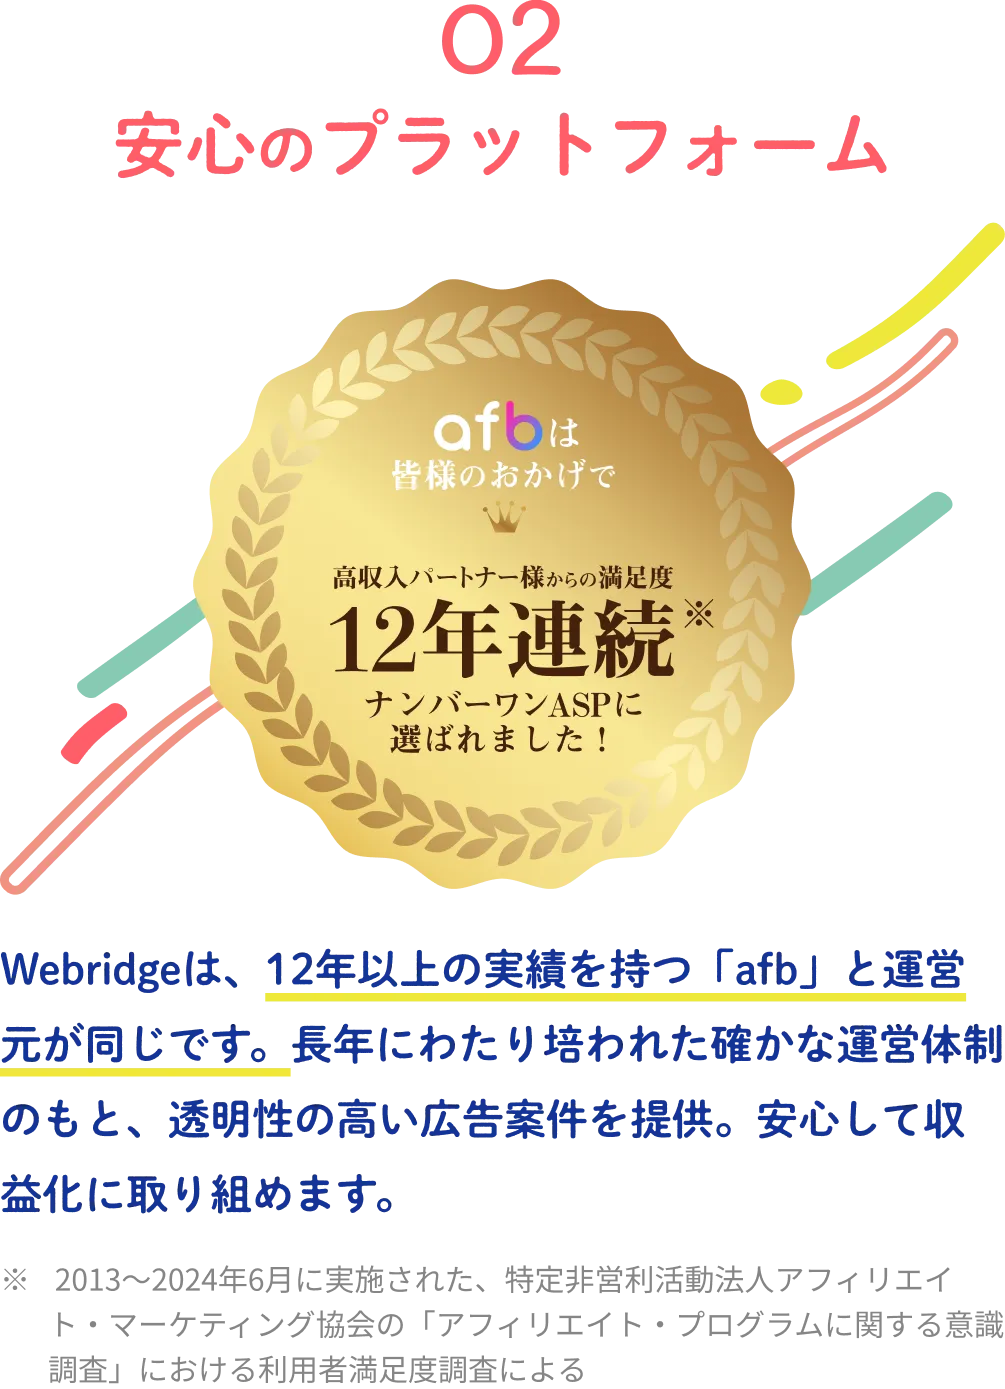
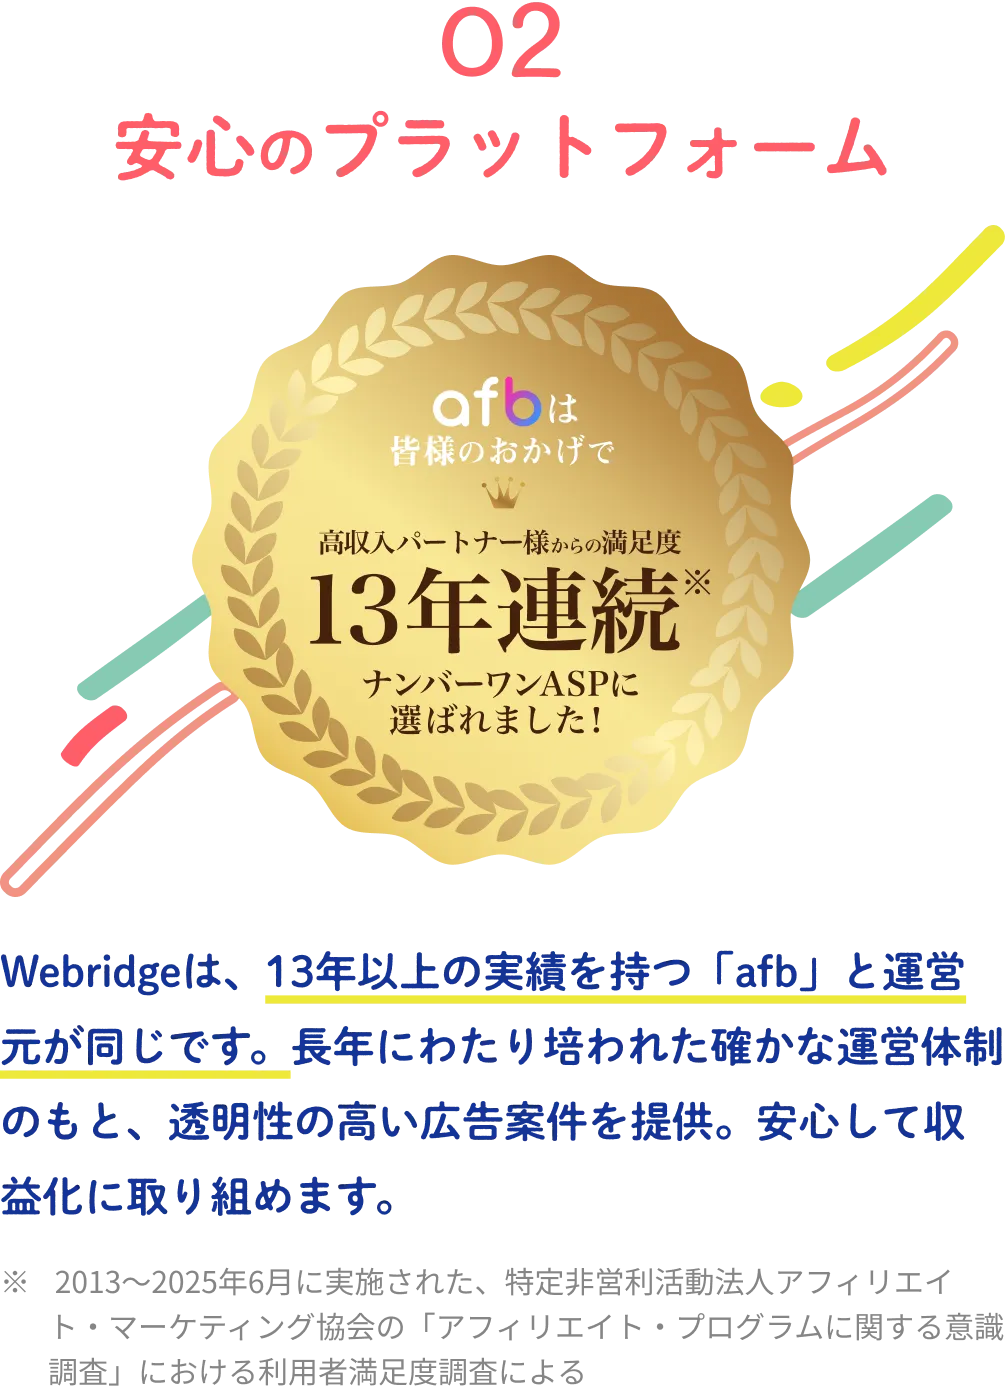
[fix] 選ばれる理由のreason02の画像差し替え

diff --git a/ja_jp/influencer/index.html b/ja_jp/influencer/index.html
@@ -234,7 +234,7 @@
                         <img src="assets/images/reason_item01.webp" alt="01.海外案件に気軽に挑戦　日本の会社が運営するWebridge。画面の日本語表示はもちろん、日本人スタッフのサポートもあるので、「海外案件に挑戦したいけど、契約や管理の複雑さが不安」「英語に自信がない」という人でも気軽に始められます。" width="335" height="512" loading="lazy">
                     </p>
                     <p class="reason__item c-fadeinScroll"> <!-- reason02 -->
-                        <img src="assets/images/reason_item02.webp" alt="02.安心のプラットフォーム　Webridgeは、12年以上の実績を持つ「afb」と運営元が同じです。長年にわたり培われた確かな運営体制のもと、透明性の高い広告案件を提供。安心して収益化に取り組めます。" width="335" height="463" loading="lazy">
+                        <img src="assets/images/reason_item02.webp" alt="02.安心のプラットフォーム　Webridgeは、13年以上の実績を持つ「afb」と運営元が同じです。長年にわたり培われた確かな運営体制のもと、透明性の高い広告案件を提供。安心して収益化に取り組めます。" width="335" height="463" loading="lazy">
                     </p>
                     <p class="reason__item c-fadeinScroll"> <!-- reason03 -->
                         <img src="assets/images/reason_item03.webp" alt="03.初心者でも収益化を目指せる　特別な知識やスキルがなくても、SNSで紹介するだけでOK！案件を探しやすく、成果もすぐに確認できるから、初心者でも効率よく収益化を目指せます。" width="335" height="471" loading="lazy">
